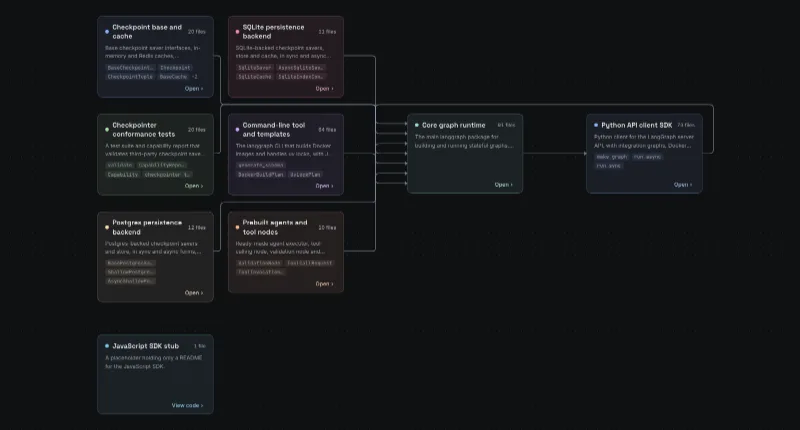
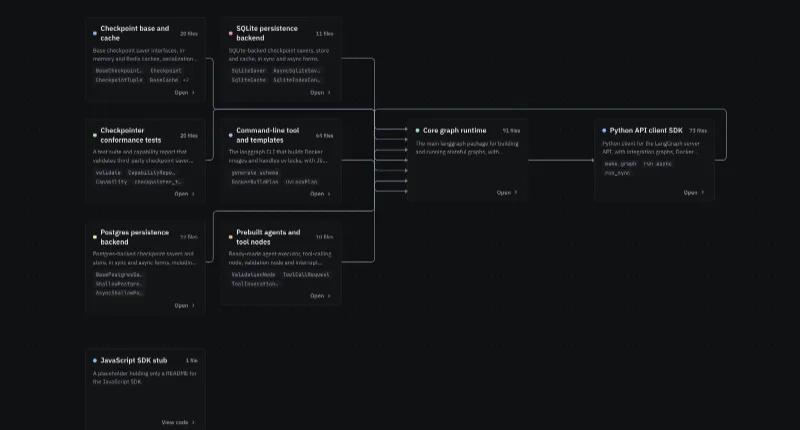
review: system font fallback, neutral fills, honest alias evidence (0C/3W/5S)
- The system UI face now comes before the Korean faces, so Latin text shows
  in it, not in a Korean face's Latin, while IBM Plex Sans loads.
- ADR-29 proves the Hangul alias by width (0.94, its size-adjust) in Chrome
  for Testing and headless shell 148; a font name alone could not tell it
  from the plain family.
- Buttons, toggles, bars and handles leave the accent: filled buttons take
  the text color, the rest the secondary text color. The light accent is
  #4f46e5 so it matches the dark theme's purple.
- The minimap draws neutral blocks outlined in each kind color; dimmed nodes
  keep 4.5:1; the gallery header keeps its height; gallery thumbnails, hero
  and share images are redrawn from this build.
- On phones the analyze button hides its parsing count, which pushed the
  header buttons over the title at 320px.
- SemanticTree's reanalyze glyph is the refresh icon; ARCH says which inline
  SVGs and arrows remain.
- Smaller fixes: "Repositories: {n}", language toggle tooltips without the
  old glyph prefix, copy button title follows the copied state.

diff --git a/src/lib/styles/global.css b/src/lib/styles/global.css
@@ -69,8 +69,7 @@
 	--color-text-tertiary: #5e5e5e;
 	--color-on-inverted: #ffffff;
 
-	--color-accent: #1d4ed8;
-	--color-accent-hover: #1e40af;
+	--color-accent: #4f46e5;
 	--color-accent-muted: color-mix(in srgb, var(--color-accent) 15%, transparent);
 	--color-on-accent: #ffffff;
 
@@ -160,9 +159,11 @@
 	--duration-medium: 300ms;
 	--ease-standard: cubic-bezier(0.24, 1, 0.4, 1);
 
+	/* The system UI face comes before the Korean names: it fills in for Latin while IBM Plex Sans
+	   loads, and it has no Hangul, so Hangul still falls to the Korean faces */
 	--font-body:
-		'IBM Plex Sans', 'Ropeman Hangul', 'Apple SD Gothic Neo', 'Malgun Gothic', 'Noto Sans KR',
-		-apple-system, BlinkMacSystemFont, 'Segoe UI', sans-serif;
+		'IBM Plex Sans', 'Ropeman Hangul', -apple-system, BlinkMacSystemFont, 'Segoe UI',
+		'Apple SD Gothic Neo', 'Malgun Gothic', 'Noto Sans KR', sans-serif;
 	--font-code: 'JetBrains Mono', 'Fira Code', 'Cascadia Code', 'Consolas', monospace;
 
 	--header-height: 48px;
@@ -193,7 +194,6 @@
 	--color-on-inverted: #f1f3fc;
 
 	--color-accent: #a3a6ff;
-	--color-accent-hover: #8b8eff;
 	--color-on-accent: #0b0c0e;
 
 	--color-error: #ff705d;
@@ -475,8 +475,8 @@ a:hover {
 }
 
 .btn-primary {
-	background: var(--color-accent);
-	color: var(--color-on-accent);
+	background: var(--color-text-primary);
+	color: var(--color-background-body);
 }
 
 .btn-secondary {
@@ -555,7 +555,7 @@ a:hover {
 }
 
 .toggle.active {
-	background: var(--color-accent);
+	background: var(--color-text-secondary);
 }
 
 .toggle-knob {

diff --git a/tests/header-fit.spec.ts b/tests/header-fit.spec.ts
@@ -24,16 +24,24 @@ test('every header control fits at 320px with a project open', async ({ page }) 
 	await expect(page.locator('.loading-overlay')).toBeHidden({ timeout: 120_000 });
 	await expect(page.locator('header .analyze-btn')).toBeVisible();
 
-	const title = await page.locator('header .header-title').boundingBox();
-	const controls = page.locator(
-		'header .header-right > :is(button, a):visible, header .header-right > .track-badge:visible'
-	);
-	expect(await controls.count()).toBeGreaterThanOrEqual(6);
 	await expect(page.locator('header .lang-toggle')).toBeVisible();
-	for (const box of await controls.evaluateAll((els) =>
-		els.map((el) => el.getBoundingClientRect().toJSON())
-	)) {
+
+	// Title and controls are measured together, after the fonts swap in
+	const { title, controls } = await page.evaluate(async () => {
+		await document.fonts.ready;
+		const rect = (el: Element) => el.getBoundingClientRect().toJSON() as DOMRect;
+		return {
+			title: rect(document.querySelector('header .header-title')!),
+			controls: [
+				...document.querySelectorAll('header .header-right > :is(button, a, .track-badge)')
+			]
+				.filter((el) => el.getClientRects().length > 0)
+				.map(rect)
+		};
+	});
+	expect(controls.length).toBeGreaterThanOrEqual(6);
+	for (const box of controls) {
 		expect(box.right).toBeLessThanOrEqual(320);
-		expect(box.left).toBeGreaterThanOrEqual(title!.x + title!.width);
+		expect(box.left).toBeGreaterThanOrEqual(title.right);
 	}
 });

diff --git a/src/lib/stores/i18nStore.svelte.ts b/src/lib/stores/i18nStore.svelte.ts
@@ -870,7 +870,7 @@ const translations: Record<Locale, TranslationSet> = {
 			newLabel: '새로 열기',
 			analyze: '분석',
 			analyzeTitle: 'AI 시맨틱 분석',
-			languageToggle: 'EN, 영어로 보기',
+			languageToggle: 'View in English',
 			gallery: '갤러리',
 			home: '처음 화면으로',
 			homeConfirmTitle: '처음 화면으로 돌아갈까요?',
@@ -1698,7 +1698,7 @@ const translations: Record<Locale, TranslationSet> = {
 			newLabel: 'New',
 			analyze: 'Analyze',
 			analyzeTitle: 'AI semantic analysis',
-			languageToggle: '한, 한국어로 보기',
+			languageToggle: '한국어로 보기',
 			gallery: 'Explore',
 			home: 'Back to start',
 			homeConfirmTitle: 'Go back to the start page?',
@@ -2044,7 +2044,7 @@ const translations: Record<Locale, TranslationSet> = {
 			searchLabel: 'Search',
 			languageLabel: 'Language',
 			allLanguages: 'All languages',
-			repoCount: '{n} repositories',
+			repoCount: 'Repositories: {n}',
 			starCount: '{n} stars',
 			empty: 'No projects match your filters.',
 			entryTitle: '{title} architecture | Ropeman Explore',

diff --git a/src/lib/styles/chat.css b/src/lib/styles/chat.css
@@ -5,8 +5,8 @@
 	width: 56px;
 	height: 56px;
 	border-radius: 50%;
-	background: var(--color-accent);
-	color: var(--color-on-accent);
+	background: var(--color-text-primary);
+	color: var(--color-background-body);
 	font-size: var(--font-size-2xl);
 	display: flex;
 	align-items: center;
@@ -20,7 +20,7 @@
 
 .chat-float-btn:hover {
 	transform: scale(1.1);
-	background: var(--color-accent-hover);
+	background: var(--color-text-secondary);
 }
 
 .chat-popup {
@@ -133,8 +133,8 @@
 
 .chat-send-btn {
 	padding: var(--spacing-2) var(--spacing-4);
-	background: var(--color-accent);
-	color: var(--color-on-accent);
+	background: var(--color-text-primary);
+	color: var(--color-background-body);
 	border-radius: var(--radius-element);
 	font-size: var(--font-size-base);
 	font-weight: var(--font-weight-medium);
@@ -142,7 +142,7 @@
 }
 
 .chat-send-btn:hover {
-	background: var(--color-accent-hover);
+	background: var(--color-text-secondary);
 }
 
 .chat-send-btn:disabled {

diff --git a/src/lib/components/OnboardingTour.svelte b/src/lib/components/OnboardingTour.svelte
@@ -398,8 +398,8 @@
 		height: 22px;
 		padding: 0 var(--spacing-2);
 		border-radius: var(--radius-full);
-		background: var(--color-accent);
-		color: var(--color-on-accent);
+		background: var(--color-text-primary);
+		color: var(--color-background-body);
 		font-size: var(--font-size-sm);
 		font-weight: var(--font-weight-bold);
 		letter-spacing: 0.05em;
@@ -476,14 +476,14 @@
 		border-radius: var(--radius-element);
 		font-size: var(--font-size-sm);
 		font-weight: var(--font-weight-bold);
-		color: var(--color-on-accent);
-		background: var(--color-accent);
+		color: var(--color-background-body);
+		background: var(--color-text-primary);
 		cursor: pointer;
 		transition: background var(--duration-fast) var(--ease-standard);
 	}
 
 	.tour-btn-next:hover {
-		background: var(--color-accent-hover);
+		background: var(--color-text-secondary);
 	}
 
 	/* Skip confirmation dialog */

diff --git a/src/lib/components/Header.svelte b/src/lib/components/Header.svelte
@@ -99,7 +99,9 @@
 					<span aria-hidden="true" class="material-symbols-outlined analyze-spinner"
 						>progress_activity</span
 					>
-					{projectStore.parsingProgress.done}/{projectStore.parsingProgress.total}
+					<span class="analyze-count"
+						>{projectStore.parsingProgress.done}/{projectStore.parsingProgress.total}</span
+					>
 				{:else}
 					<span aria-hidden="true" class="material-symbols-outlined">account_tree</span>
 					<span class="analyze-label">{i18nStore.t('header.analyze')}</span>
@@ -491,10 +493,9 @@
 			justify-content: center;
 		}
 
-		/* While parsing it also shows the file count */
-		.analyze-btn {
-			width: auto;
-			padding: 0 var(--spacing-1-5);
+		/* The spinner says it is parsing; the count would push the buttons over the title */
+		.analyze-count {
+			display: none;
 		}
 	}
 </style>

diff --git a/src/lib/components/ZUICanvas.svelte b/src/lib/components/ZUICanvas.svelte
@@ -573,7 +573,12 @@
 	>
 		<Controls />
 		{#if showMinimap && !isCompact}
-			<MiniMap nodeColor={(n) => (n.data?.color as string) ?? 'var(--color-neutral)'} />
+			<!-- Neutral blocks like the cards, each outlined in its kind color -->
+			<MiniMap
+				nodeColor={() => 'var(--color-background-muted)'}
+				nodeStrokeColor={(n) => (n.data?.color as string) ?? 'var(--color-border)'}
+				nodeStrokeWidth={2}
+			/>
 		{/if}
 		<Background gap={24} size={1} />
 		<ExportController
@@ -1128,8 +1133,8 @@
 		min-width: 14px;
 		height: 14px;
 		border-radius: var(--radius-full);
-		background: var(--color-accent);
-		color: var(--color-on-accent);
+		background: var(--color-text-primary);
+		color: var(--color-background-body);
 		font-size: var(--font-size-xs);
 		font-weight: var(--font-weight-bold);
 		display: flex;

diff --git a/src/lib/components/AgentSetup.svelte b/src/lib/components/AgentSetup.svelte
@@ -134,7 +134,7 @@
 				type="button"
 				class="copy"
 				aria-label={t('copyInstall')}
-				title={t('copy')}
+				title={copied(INSTALL) ? t('copied') : t('copy')}
 				onclick={() => copyCommand(INSTALL, installCode)}
 			>
 				<span aria-hidden="true" class="material-symbols-outlined"
@@ -194,7 +194,7 @@
 						type="button"
 						class="copy"
 						aria-label={t('copySkill', { agent: selected.name })}
-						title={t('copy')}
+						title={copied(skillCommand) ? t('copied') : t('copy')}
 						onclick={() => copyCommand(skillCommand, skillCode)}
 					>
 						<span aria-hidden="true" class="material-symbols-outlined"

diff --git a/src/lib/components/ShareDialog.svelte b/src/lib/components/ShareDialog.svelte
@@ -234,8 +234,8 @@
 	}
 
 	.share-btn-confirm {
-		background: var(--color-accent);
-		color: var(--color-on-accent);
+		background: var(--color-text-primary);
+		color: var(--color-background-body);
 	}
 
 	.share-btn-confirm:hover {
@@ -243,8 +243,8 @@
 	}
 
 	.share-btn-copy {
-		background: var(--color-accent);
-		color: var(--color-on-accent);
+		background: var(--color-text-primary);
+		color: var(--color-background-body);
 	}
 
 	.share-btn-copy:hover {

diff --git a/src/lib/components/SemanticTree.svelte b/src/lib/components/SemanticTree.svelte
@@ -247,7 +247,9 @@
 					title={i18nStore.t('node.reanalyze')}
 					onclick={(e) => handleReanalyze(e, node)}
 				>
-					&#x21BB;
+					<span aria-hidden="true" class="material-symbols-outlined tree-reanalyze-icon"
+						>refresh</span
+					>
 				</button>
 			{/if}
 			<span
@@ -430,6 +432,10 @@
 
 	.tree-node:hover .tree-reanalyze-btn {
 		display: flex;
+	}
+
+	.tree-reanalyze-icon {
+		font-size: 14px;
 	}
 
 	.tree-reanalyze-btn:hover {

diff --git a/src/lib/components/SnippetEditor.svelte b/src/lib/components/SnippetEditor.svelte
@@ -333,8 +333,8 @@
 		gap: var(--spacing-2);
 		margin-top: var(--spacing-4);
 		padding: var(--spacing-3) var(--spacing-6);
-		background: var(--color-accent);
-		color: var(--color-on-accent);
+		background: var(--color-text-primary);
+		color: var(--color-background-body);
 		border-radius: var(--radius-element);
 		font-size: var(--font-size-base);
 		font-weight: var(--font-weight-bold);

diff --git a/src/lib/components/SnapshotViewer.svelte b/src/lib/components/SnapshotViewer.svelte
@@ -157,8 +157,8 @@
 	.source-action {
 		flex-shrink: 0;
 		padding: var(--spacing-1) var(--spacing-3);
-		background: var(--color-accent);
-		color: var(--color-on-accent);
+		background: var(--color-text-primary);
+		color: var(--color-background-body);
 		border: none;
 		border-radius: var(--radius-element);
 		font-size: var(--font-size-sm);
